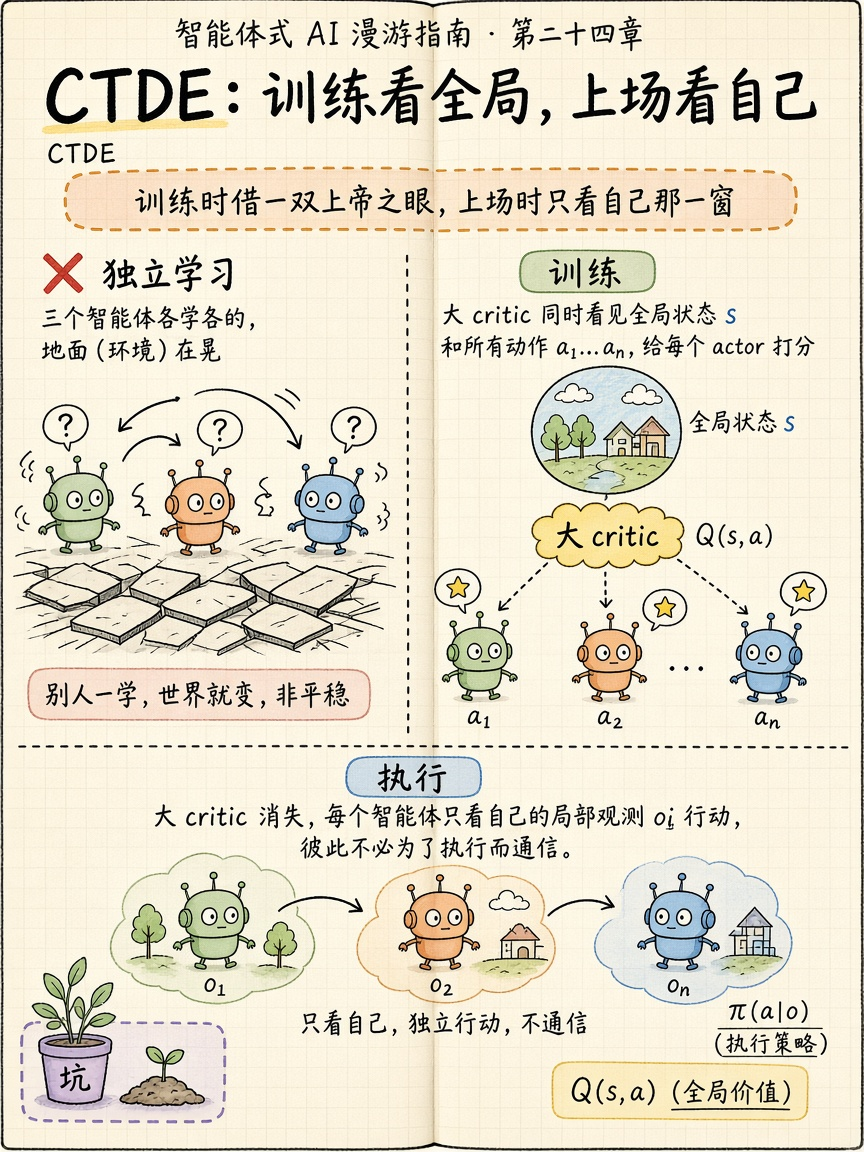
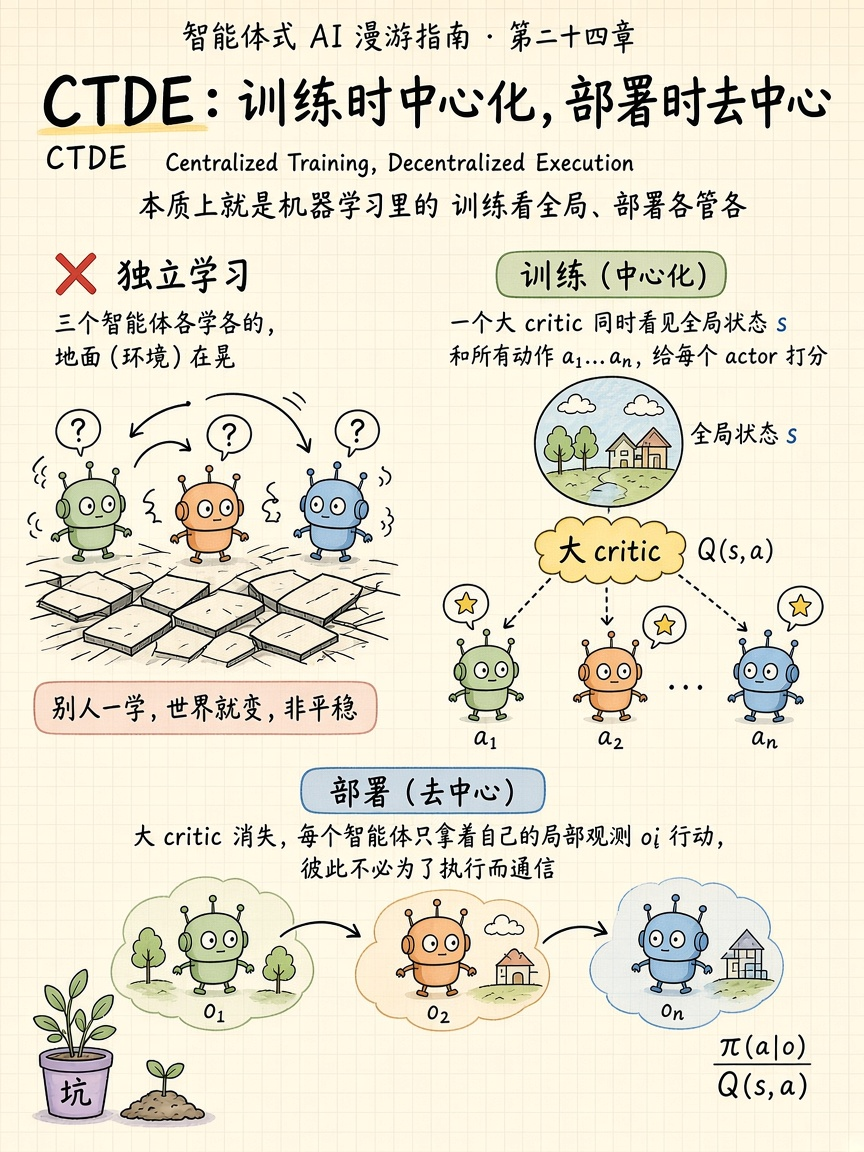
Redraw the CTDE card without the center crease.
Replace the PNG with the new lossless file and mark the progress row attempt=2. No score was recorded.

diff --git a/notes/progress.md b/notes/progress.md
@@ -654,7 +654,7 @@
 | 2026-11-11 | book/hitchhikers-guide-agentic-ai/23-a2a/02-task-lifecycle | notes/cards/book-hitchhikers-guide-agentic-ai/23-a2a/02-task-lifecycle.png | done attempt=1 |
 | 2026-11-11 | book/hitchhikers-guide-agentic-ai/23-a2a/03-contract-net | notes/cards/book-hitchhikers-guide-agentic-ai/23-a2a/03-contract-net.png | done attempt=1 |
 | 2026-11-11 | book/hitchhikers-guide-agentic-ai/23-a2a/04-a2a-vs-mcp | notes/cards/book-hitchhikers-guide-agentic-ai/23-a2a/04-a2a-vs-mcp.png | done attempt=1 |
-| 2026-11-11 | book/hitchhikers-guide-agentic-ai/24-multi-agent/01-ctde | notes/cards/book-hitchhikers-guide-agentic-ai/24-multi-agent/01-ctde.png | done attempt=1 |
+| 2026-11-11 | book/hitchhikers-guide-agentic-ai/24-multi-agent/01-ctde | notes/cards/book-hitchhikers-guide-agentic-ai/24-multi-agent/01-ctde.png | done attempt=2 |
 | 2026-11-11 | book/hitchhikers-guide-agentic-ai/24-multi-agent/02-self-play | notes/cards/book-hitchhikers-guide-agentic-ai/24-multi-agent/02-self-play.png | done attempt=1 |
 | 2026-11-11 | book/hitchhikers-guide-agentic-ai/24-multi-agent/03-stigmergy | notes/cards/book-hitchhikers-guide-agentic-ai/24-multi-agent/03-stigmergy.png | done attempt=1 |
 | 2026-11-11 | book/hitchhikers-guide-agentic-ai/24-multi-agent/04-counterfactual-credit | notes/cards/book-hitchhikers-guide-agentic-ai/24-multi-agent/04-counterfactual-credit.png | done attempt=1 |
